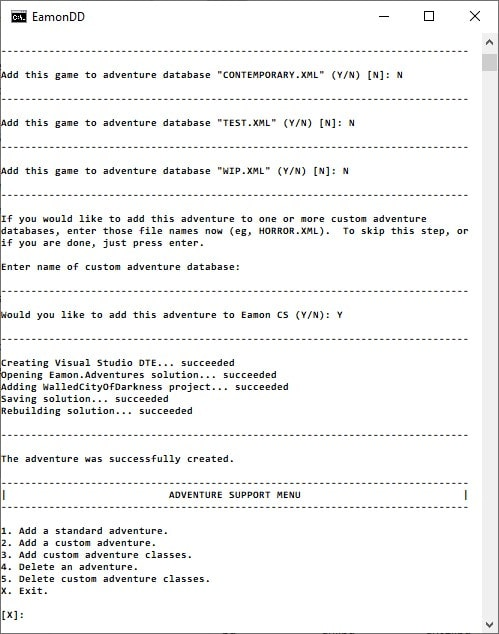
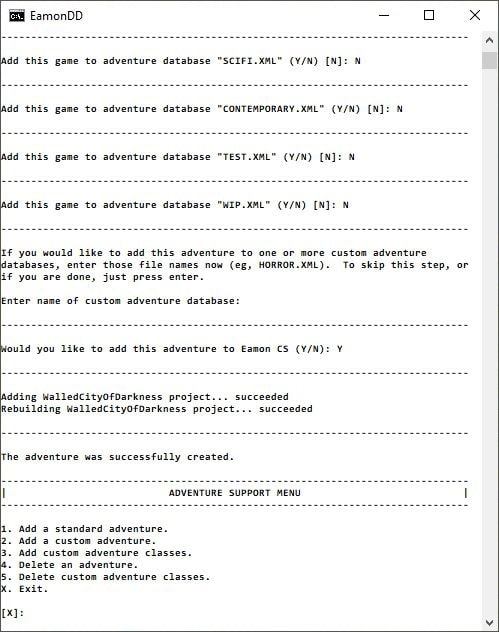
Eamon/work branch oct 2020 03 (#10)
* More work on the new Visual Studio automation logic based on the dotnet program.  Merged the logic in EamonVS into EamonDD and removed that library.

* Updated WorkingDraft to reflect recent changes to Visual Studio automation logic.

* Finished WorkingDraft updates to reflect recent changes to Visual Studio automation logic.

diff --git a/pages/WorkingDraft/WorkingDraft.html b/pages/WorkingDraft/WorkingDraft.html
@@ -149,10 +149,6 @@
           <td>Eamon CS Adventure Plugin</td>
         </tr>
         <tr>
-          <td>System\Bin\EamonVS.dll</td>
-          <td>Eamon CS/Visual Studio Automation Library</td>
-        </tr>
-        <tr>
           <td>System\Bin\Eamon.dll</td>
           <td>Eamon CS Library</td>
         </tr>
@@ -808,20 +804,29 @@
 
         src="../../assets/images/WorkingDraft/LoadAdventureSupportMenu.jpg"> </div>
     <br>
-    <p>TODO: REWRITE</p>
-
-
-    <p> Once you have performed any manual steps listed above, you will be able
-      to run LoadAdventureSupportMenu. Creating adventures requires entering
-      just a few key pieces of data. The automated process uses resources
-      embedded within the EamonDD plugin:</p>
+    <p>The Adventure Support Menu allows Eamon CS to integrate seamlessly with
+	  Visual Studio by using the dotnet.exe program.  This integration paradigm
+	  works in both Windows and Unix, even if Visual Studio is not present.  But
+	  when creating a new adventure, there appears to be a minimum requirement
+	  that .NET Core 3.0+ SDK be on your system for total integration. When
+	  dotnet.exe adds an adventure project to the Eamon.Adventures solution,
+	  it uses the --in-root parameter, an option not available in earlier
+	  versions of .NET Core. If it fails, for this reason, you should add the
+	  .csproj file to the solution yourself and manually recompile the game.</p>
+    <p> Before proceeding further, if you downloaded the .zip file for Eamon CS,
+      it might make sense to back up your repository so you can revert if
+      necessary. For those who cloned the repository from GitHub, it might make
+      sense to create a branch for your new adventure so you can back out at any
+      time.</p>
+    <p> Creating adventures requires entering just a few key pieces of data. The
+      automated process uses resources embedded within the EamonDD plugin:</p>
     <ul>
       <li>Creates the game folder under Adventures</li>
       <li>Generates all needed code (Custom adventures only)</li>
       <li>Creates all necessary QuickLaunch .bat and .sh files</li>
-      <li>Adds game to appropriate Adventure database(s)</li>
-      <li>Adds game project to Eamon.Adventures.sln (Custom adventures only)</li>
-      <li>Rebuilds Eamon.Adventures.sln, producing game library (Custom
+      <li>Adds the game to the appropriate Adventure database(s)</li>
+      <li>Adds the game project to Eamon.Adventures.sln (Custom adventures only)</li>
+      <li>Rebuilds the game project, producing game library/binary files (Custom
         adventures only)</li>
     </ul>
     <p>Below we see an example of Custom adventure creation where a new game
@@ -833,8 +838,8 @@
         title="AddGame.jpg" alt="AddGame.jpg" src="../../assets/images/WorkingDraft/AddGame.jpg">
     </div>
     <br>
-    <p>The only thing you need to do to play your game after all this is run the
-      game's Edit[YourAdventureName] .bat or .sh file and add:</p>
+    <p>The only thing you need to do to play your game is run the corresponding
+	  Edit[YourAdventureName] .bat or .sh file and add:</p>
     <ul>
       <li>A Module record</li>
       <li>A Room record</li>
@@ -1047,17 +1052,13 @@
       to proceed. If so, it will completely remove all traces of the adventure
       from your Eamon CS system by doing the following:</p>
     <ul>
-      <li>Deletes game library/binary files (Custom adventures only)</li>
+      <li>Deletes the game library/binary files (Custom adventures only)</li>
       <li>Removes the game project from Eamon.Adventures.sln (Custom adventures
         only)</li>
-      <li>Removes the game from appropriate Adventure database(s)</li>
-      <li>Leaves the game folder under Adventures intact (but you can manually
-        delete it yourself)</li>
+      <li>Removes the game from the appropriate Adventure database(s)</li>
+      <li>Deletes the game folder under Adventures</li>
       <li>Deletes the game QuickLaunch .bat and .sh files</li>
     </ul>
-    <p>If you delete a custom adventure in Unix, you will have to remove the
-      game project manually from Eamon.Adventures.sln since Visual Studio
-      integration is not available on that platform.</p>
     <p>As you might expect, once a game has been deleted its data is not
       recoverable by normal means.</p>
     <br>
